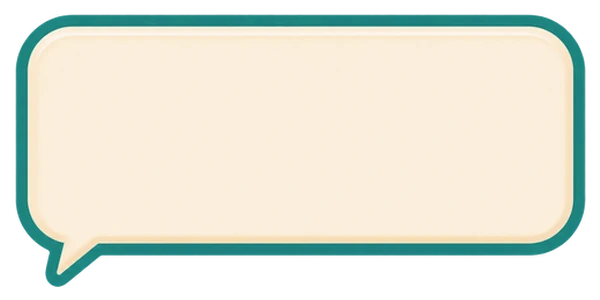
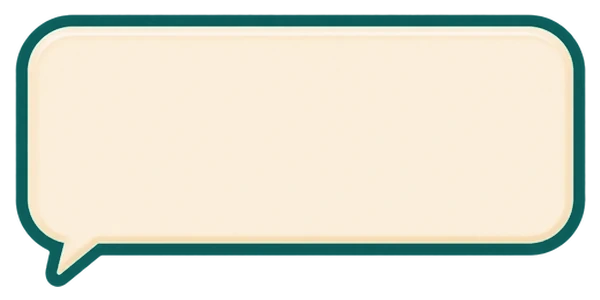
Space-Age Pop: Chat to its concept (pill header + porthole, italic bubbles in the concept's orange/teal, orange-rim input console, teal send dome, themed GIF picker)

Changed region(s): [[0.0, 0.03, 0.99, 0.96]]

diff --git a/css/fullskins-space-age.css b/css/fullskins-space-age.css
@@ -577,3 +577,33 @@ html body.fs.fs-blip[data-fs-variant="space-age"] .inline-comment-bubble p { col
   html body.fs.fs-blip[data-fs-variant="space-age"] #page-messages#page-messages #msgContactList > div > div:not(.msg-contact) > i { display: none !important; }
 }
 @media (max-width: 768px) { html body.fs.fs-blip[data-fs-variant="space-age"] #page-messages .msg-sidebar { overflow-x: hidden !important; scrollbar-width: none; } }
+
+/* ======================================================================================================== CHAT (phone) — ref/space-age/chat-a.png
+   header = cream pill with the thick orange rim, brass porthole avatar, 25pt italic name, starburst right; bubbles: received cream /
+   teal rim, sent orange, text 16pt bold italic; the input bar is an orange-rim cream console, send = teal dome with a cream arrow */
+@media (max-width: 768px) {
+  html body.fs.fs-blip[data-fs-variant="space-age"] .msg-chat-header { position: relative; border: 0 solid transparent !important; border-image: var(--fs-btn-secondary) 0 74 fill / 0 33px stretch !important; background: none !important; padding: 0 18px 0 14px !important; }
+  html body.fs.fs-blip[data-fs-variant="space-age"] .msg-chat-header::after { content: ""; position: absolute; right: 22px; top: 50%; width: 36px; height: 36px; margin-top: -18px; background: var(--fs-sparkle-1) center / contain no-repeat; pointer-events: none; }
+  html body.fs.fs-blip[data-fs-variant="space-age"] .msg-chat-header img { width: 56px !important; height: 56px !important; padding: 8px !important; box-sizing: border-box !important; box-shadow: none !important; background: var(--fs-avatar-frame) center / 100% 100% no-repeat !important; margin: -6px 0 !important; }
+  html body.fs.fs-blip[data-fs-variant="space-age"] .msg-chat-header h4 { font: italic 800 25px/30px var(--fs-title-font) !important; color: var(--sa-text) !important; white-space: nowrap; overflow: hidden; text-overflow: ellipsis; padding-right: 44px; }
+  html body.fs.fs-blip[data-fs-variant="space-age"] .msg-bubble, html body.fs.fs-blip[data-fs-variant="space-age"] .msg-bubble * { font-style: italic; }
+  html body.fs.fs-blip[data-fs-variant="space-age"] .msg-bubble { font: italic 700 16px/20px var(--fs-font) !important; }
+  html body.fs.fs-blip[data-fs-variant="space-age"] .msg-bubble.received { color: var(--sa-text) !important; }
+  html body.fs.fs-blip[data-fs-variant="space-age"] .msg-bubble.sent { color: #fff !important; }
+  html body.fs.fs-blip[data-fs-variant="space-age"] .msg-chat-input { margin: 0 6px 6px !important; height: 58px !important; padding: 0 8px 0 18px !important; border: 0 solid transparent !important; border-image: var(--fs-btn-secondary) 0 74 fill / 0 29px stretch !important; }
+  html body.fs.fs-blip[data-fs-variant="space-age"] #msgInput { height: 36px !important; font: italic 600 16px var(--fs-font) !important; }
+  html body.fs.fs-blip[data-fs-variant="space-age"] #sendMsgBtn { width: 44px !important; height: 44px !important; background: var(--fs-blip-btn) center / 100% 100% no-repeat !important; }
+  html body.fs.fs-blip[data-fs-variant="space-age"] #sendMsgBtn::after { filter: none !important; background: #fff4e2 !important; -webkit-mask: var(--fs-icon-send) center / contain no-repeat; mask: var(--fs-icon-send) center / contain no-repeat; inset: 12px !important; }
+}
+@media (max-width: 768px) {
+  /* chat GIF picker (concept chat B): orange-rim cream panel, cream search pill with a teal rim, rounded tiles, teal rules around "Powered by KLIPY" */
+  html body.fs.fs-blip[data-fs-variant="space-age"] #msgGifPicker { background: none !important; box-shadow: none !important; border-radius: 0 !important; border: 0 solid transparent !important; border-width: 8px 8px 12px !important;
+    border-image: var(--fs-panel-card-tight) 60 60 98 60 fill / 17px 17px 28px 17px / 0 stretch !important; }
+  html body.fs.fs-blip[data-fs-variant="space-age"] #msgGifPicker .gif-picker-header { background: none !important; border: 0 !important; }
+  html body.fs.fs-blip[data-fs-variant="space-age"] #msgGifSearch { background: none !important; border: 0 solid transparent !important; border-radius: 0 !important; border-image: var(--fs-field) 0 64 fill / 0 18px stretch !important;
+    font: italic 600 16px var(--fs-font) !important; color: var(--sa-text) !important; padding: 0 16px !important; }
+  html body.fs.fs-blip[data-fs-variant="space-age"] #msgGifClose { color: var(--sa-text) !important; background: none !important; }
+  html body.fs.fs-blip[data-fs-variant="space-age"] #msgGifGrid { background: none !important; }
+  html body.fs.fs-blip[data-fs-variant="space-age"] #msgGifGrid img { border-radius: 10px !important; }
+  html body.fs.fs-blip[data-fs-variant="space-age"] #msgGifPicker :is(.gif-picker-footer, .gif-powered, [class*=powered]) { background: none !important; font: italic 800 14px var(--fs-title-font) !important; color: var(--sa-text) !important; }
+}

diff --git a/prototypes/tools/space_age_chrome.py b/prototypes/tools/space_age_chrome.py
@@ -133,6 +133,24 @@ def swoosh():
     return im.filter(ImageFilter.GaussianBlur(.5 * SS)).resize((W, H), Image.LANCZOS)
 
 
+def vivid(name, hue_lo, hue_hi, target):
+    """push the painted orange / teal of a Codex piece to the concept's sampled colour, keeping its shading + alpha"""
+    import colorsys
+    im = Image.open(f'{O}/{name}.webp').convert('RGBA'); px = im.load()
+    th, ts, tv = colorsys.rgb_to_hsv(*[c / 255 for c in target])
+    for y in range(im.height):
+        for x in range(im.width):
+            r, g, b, a = px[x, y]
+            if a < 8: continue
+            h, s_, v = colorsys.rgb_to_hsv(r / 255, g / 255, b / 255)
+            if s_ > .3 and hue_lo <= h <= hue_hi:
+                k = min(1, (s_ - .3) / .3)
+                nh = h + (th - h) * k; ns = s_ + (max(s_, ts) - s_) * k; nv = v + (min(1, v * tv / .88) - v) * k * .7
+                rr, gg, bb = colorsys.hsv_to_rgb(nh, min(1, ns), min(1, nv))
+                px[x, y] = (round(rr * 255), round(gg * 255), round(bb * 255), a)
+    return im
+
+
 def save(im, name, q=92): im.save(f'{O}/{name}.webp', 'WEBP', quality=q, method=6); return name
 
 
@@ -165,6 +183,8 @@ def build():
     out.append(save(pill((889, 129), (1, 1, 888, 128), 'cream', TE_BODY, 10), 'field'))
     out.append(save(pill((1187, 129), (1, 1, 1186, 128), 'cream', TAN_LINE, 8), 'tabs-track'))
     out.append(save(pill((700, 130), (29, 5, 672, 125), 'cream', (240, 205, 165), 5), 'menu-row-on'))
+    out.append(save(vivid('bubble-out', .02, .13, OR_BODY), 'bubble-out'))
+    out.append(save(vivid('bubble-in', .4, .6, TE_BODY), 'bubble-in'))
     # sheet (300x300, open bottom, 70 70 0 70 / 22px): cream with a thin tan rim
     sh = card((300, 400), (5, 4, 295, 396), 70, 9, 'tan', CREAM).crop((0, 0, 300, 300)); out.append(save(sh, 'sheet'))
     return out
